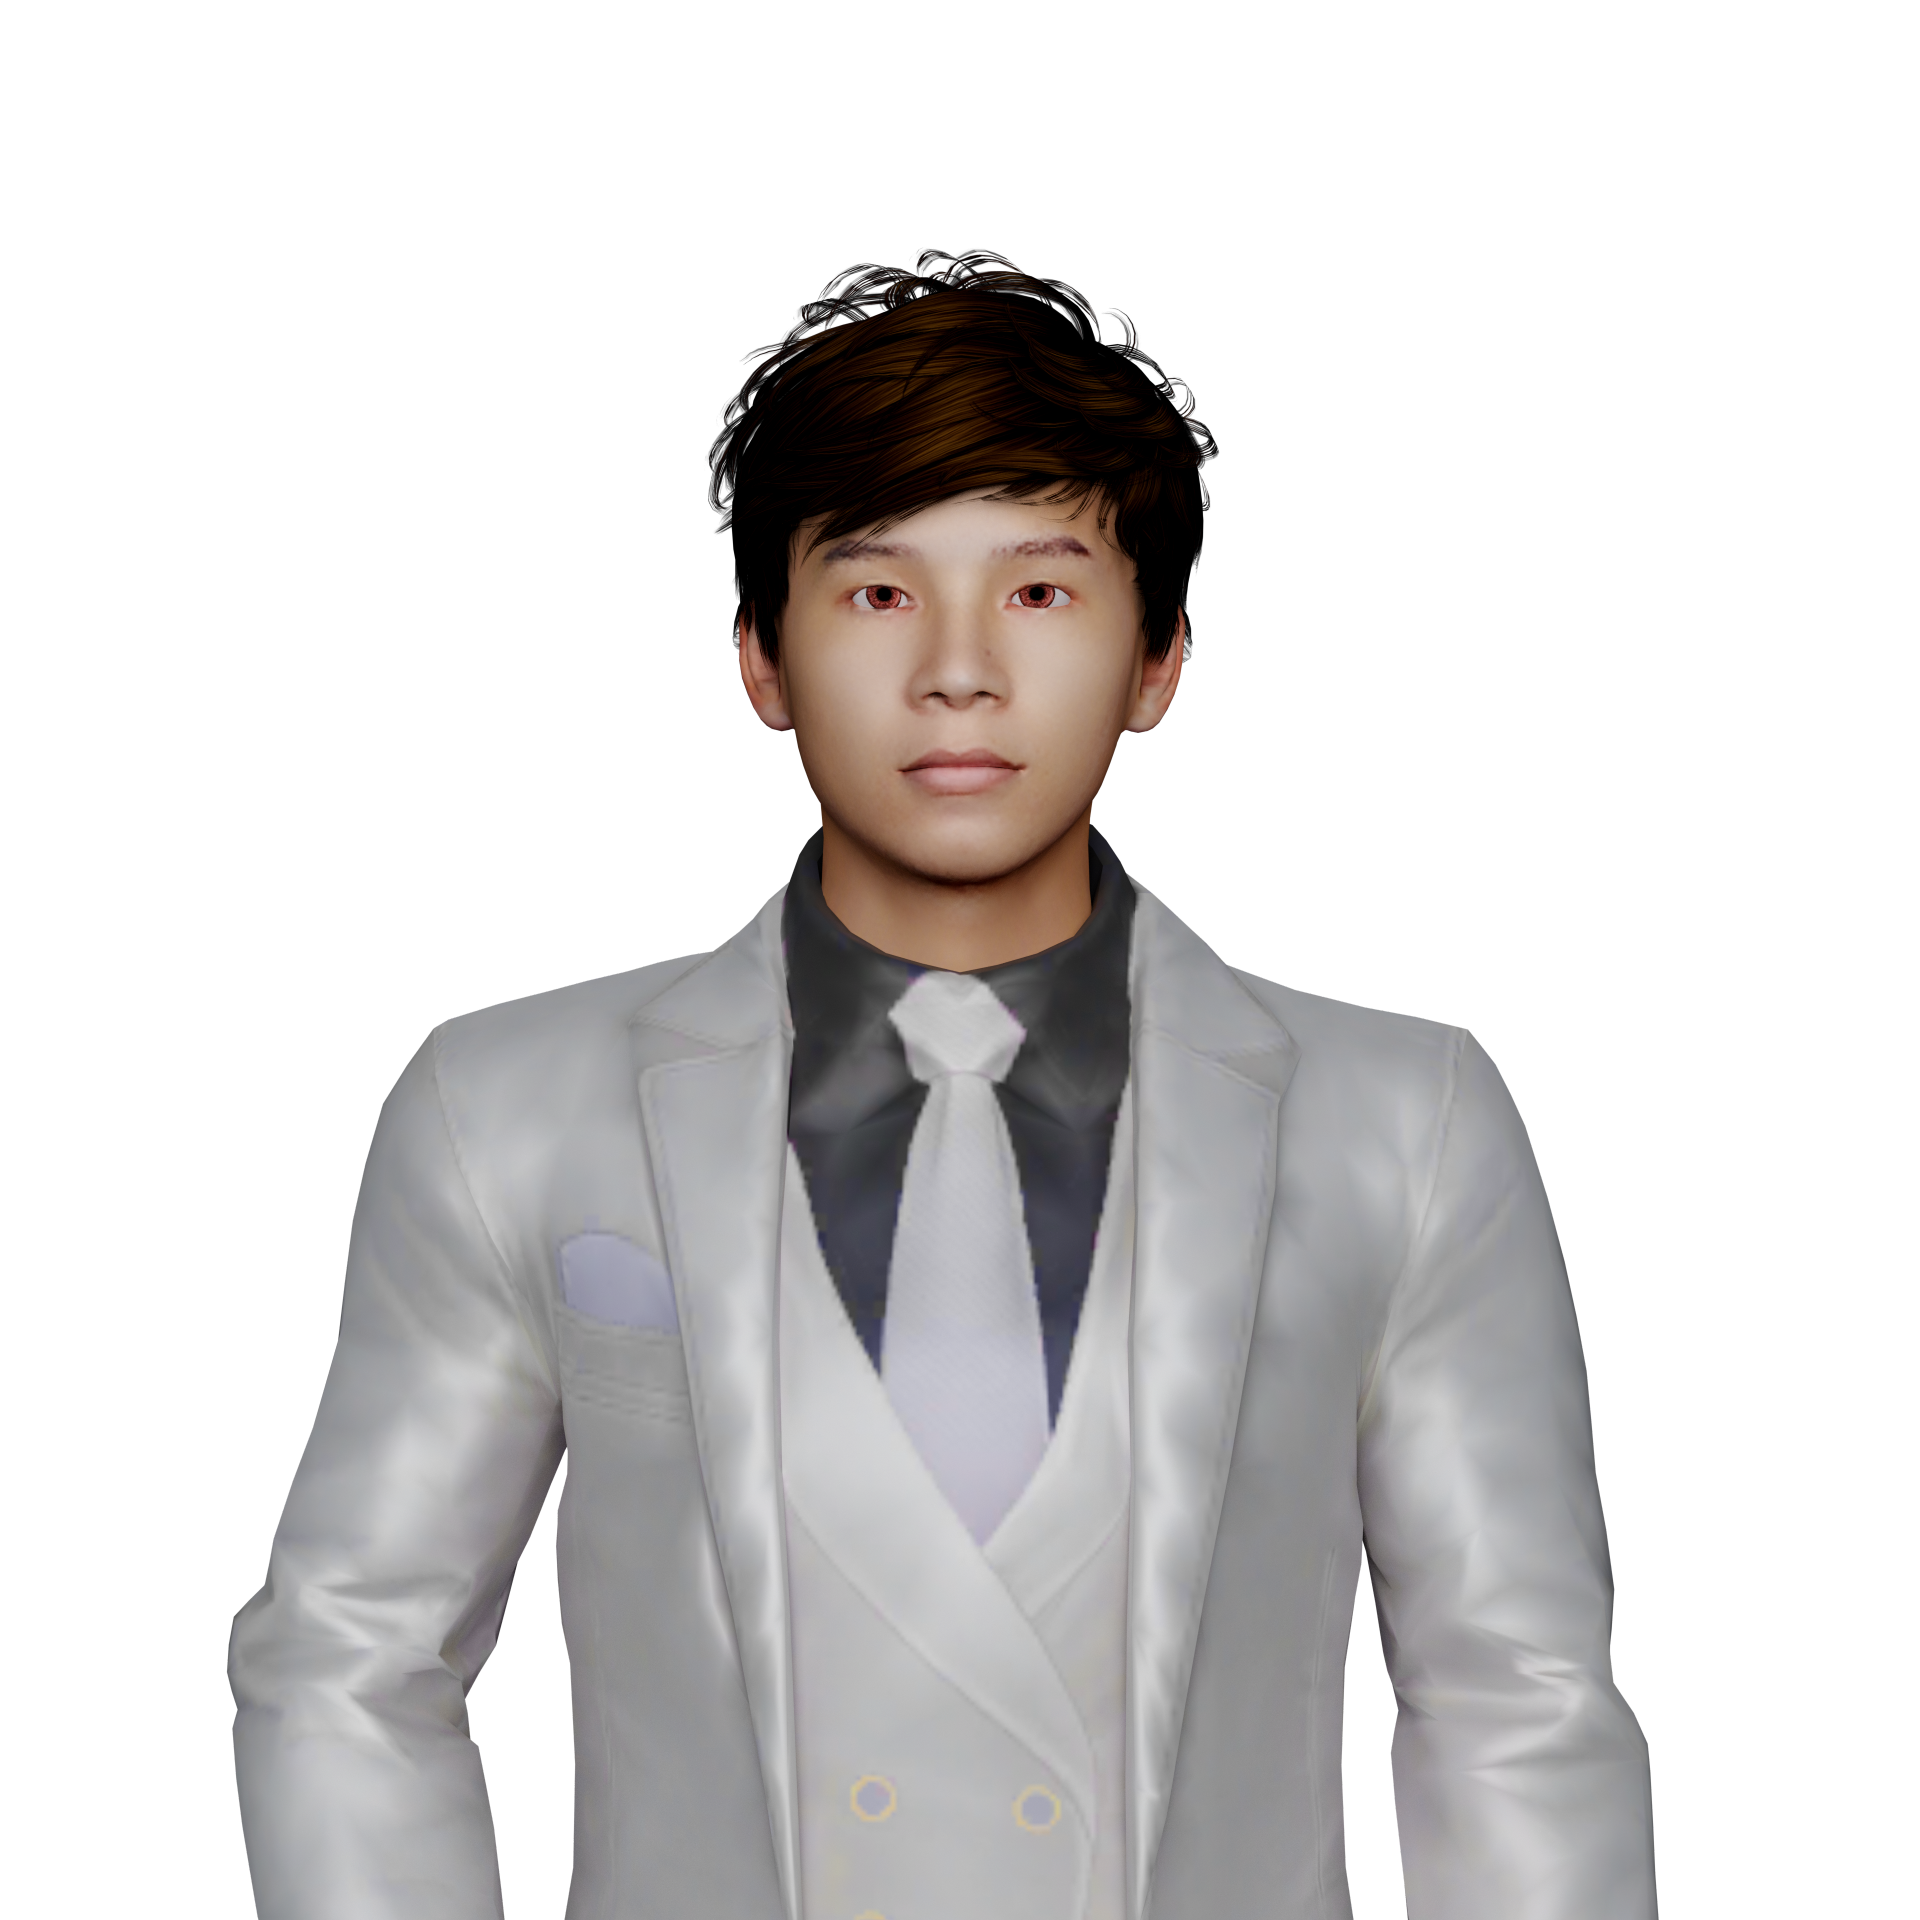
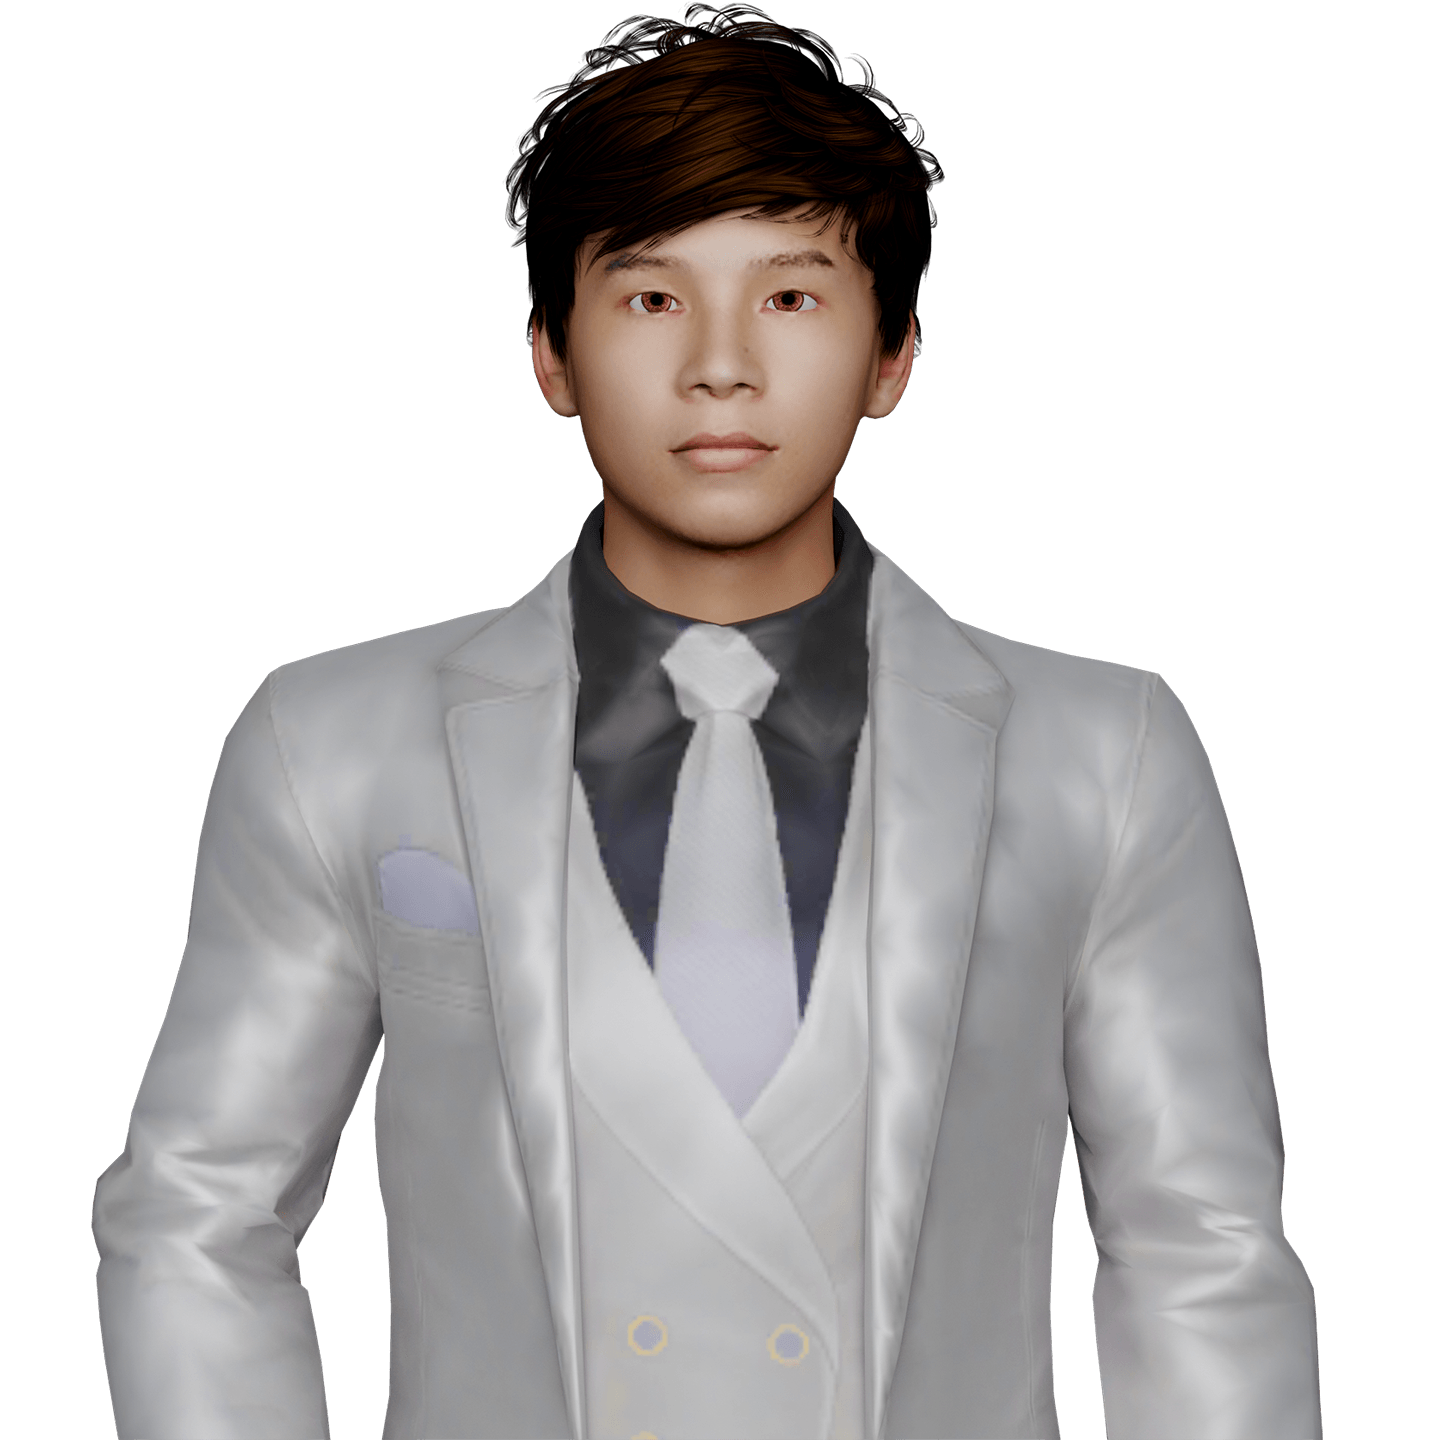
diku

diff --git a/style.css b/style.css
@@ -100,7 +100,7 @@ body{
   border-radius: 100%;
 }
 .profile-div{
-  padding-top: 10%;
+  padding-top: 8%;
 }
 @media only screen and (max-width: 720px)
 {
@@ -124,17 +124,21 @@ body{
     font-size: 20px;
   }
 }
-
+a{
+  text-decoration: none;
+}
 ul{
   display: inline-block; 
 	text-align: left; 
   list-style-type: none;
   font-family: arial;
   letter-spacing: 0.15em;
-  color: #959595;
   font-size: 1.2vw;
   margin: 0%;
   padding: 0%;
+}
+li{
+  color: #959595;
 }
 @media only screen and (max-width: 720px)
 {
@@ -216,12 +220,13 @@ ul{
   color: #959595;
   padding: 0%;
   margin: 10px;
-  margin-top: 10%;
+  margin-top: 8%;
 }
 @media only screen and (max-width: 720px)
 {
   .h-5{
     font-size: 20px;
+    margin-top: 20%;
   }
 }
 footer{
@@ -233,7 +238,7 @@ footer{
   margin-bottom: 0%;
   margin: 0%;
   padding: 0%;
-  transform: translate(0%, 1%);
+  transform: translate(0%, 20%);
 }
 .t-div{
   margin: 0%;
@@ -242,6 +247,6 @@ footer{
 @media only screen and (max-width: 720px)
 {
   .t-img{
-    height: 100%;
+    width: 80vw;
   }
 }

diff --git a/index.html b/index.html
@@ -53,10 +53,10 @@
     </h5>
     <div class="social">
       <ul>
-        <li>▹Email: <b>diku1235@gmail.com</b></li>
-        <li>▹YouTube: <b>youtube.com/@DikuGaming</b></li>
-        <li>▹Instagram: <b>instagram.com/diku.png</b></li>
-        <li>▹LinkedIn: <b>linkedin.com/in/digbijay-saikia</b></li>
+        <a href="mailto:diku1235@gmail.com"><li>▹Email: <b>diku1235@gmail.com</b></li></a>
+        <a href="https://www.youtube.com/@dikugaming"><li>▹YouTube: <b>@DikuGaming</b></li></a>
+        <a href="https://www.instagram.com/diku.png/?hl=en"><li>▹Instagram: <b>@diku.png</b></li></a>
+        <a href="https://www.linkedin.com/in/digbijay-saikia/"><li>▹LinkedIn: <b>@digbijay-saikia</b></li></a>
       </ul>
     </div>
     <h5 align="center" class="h-5">
